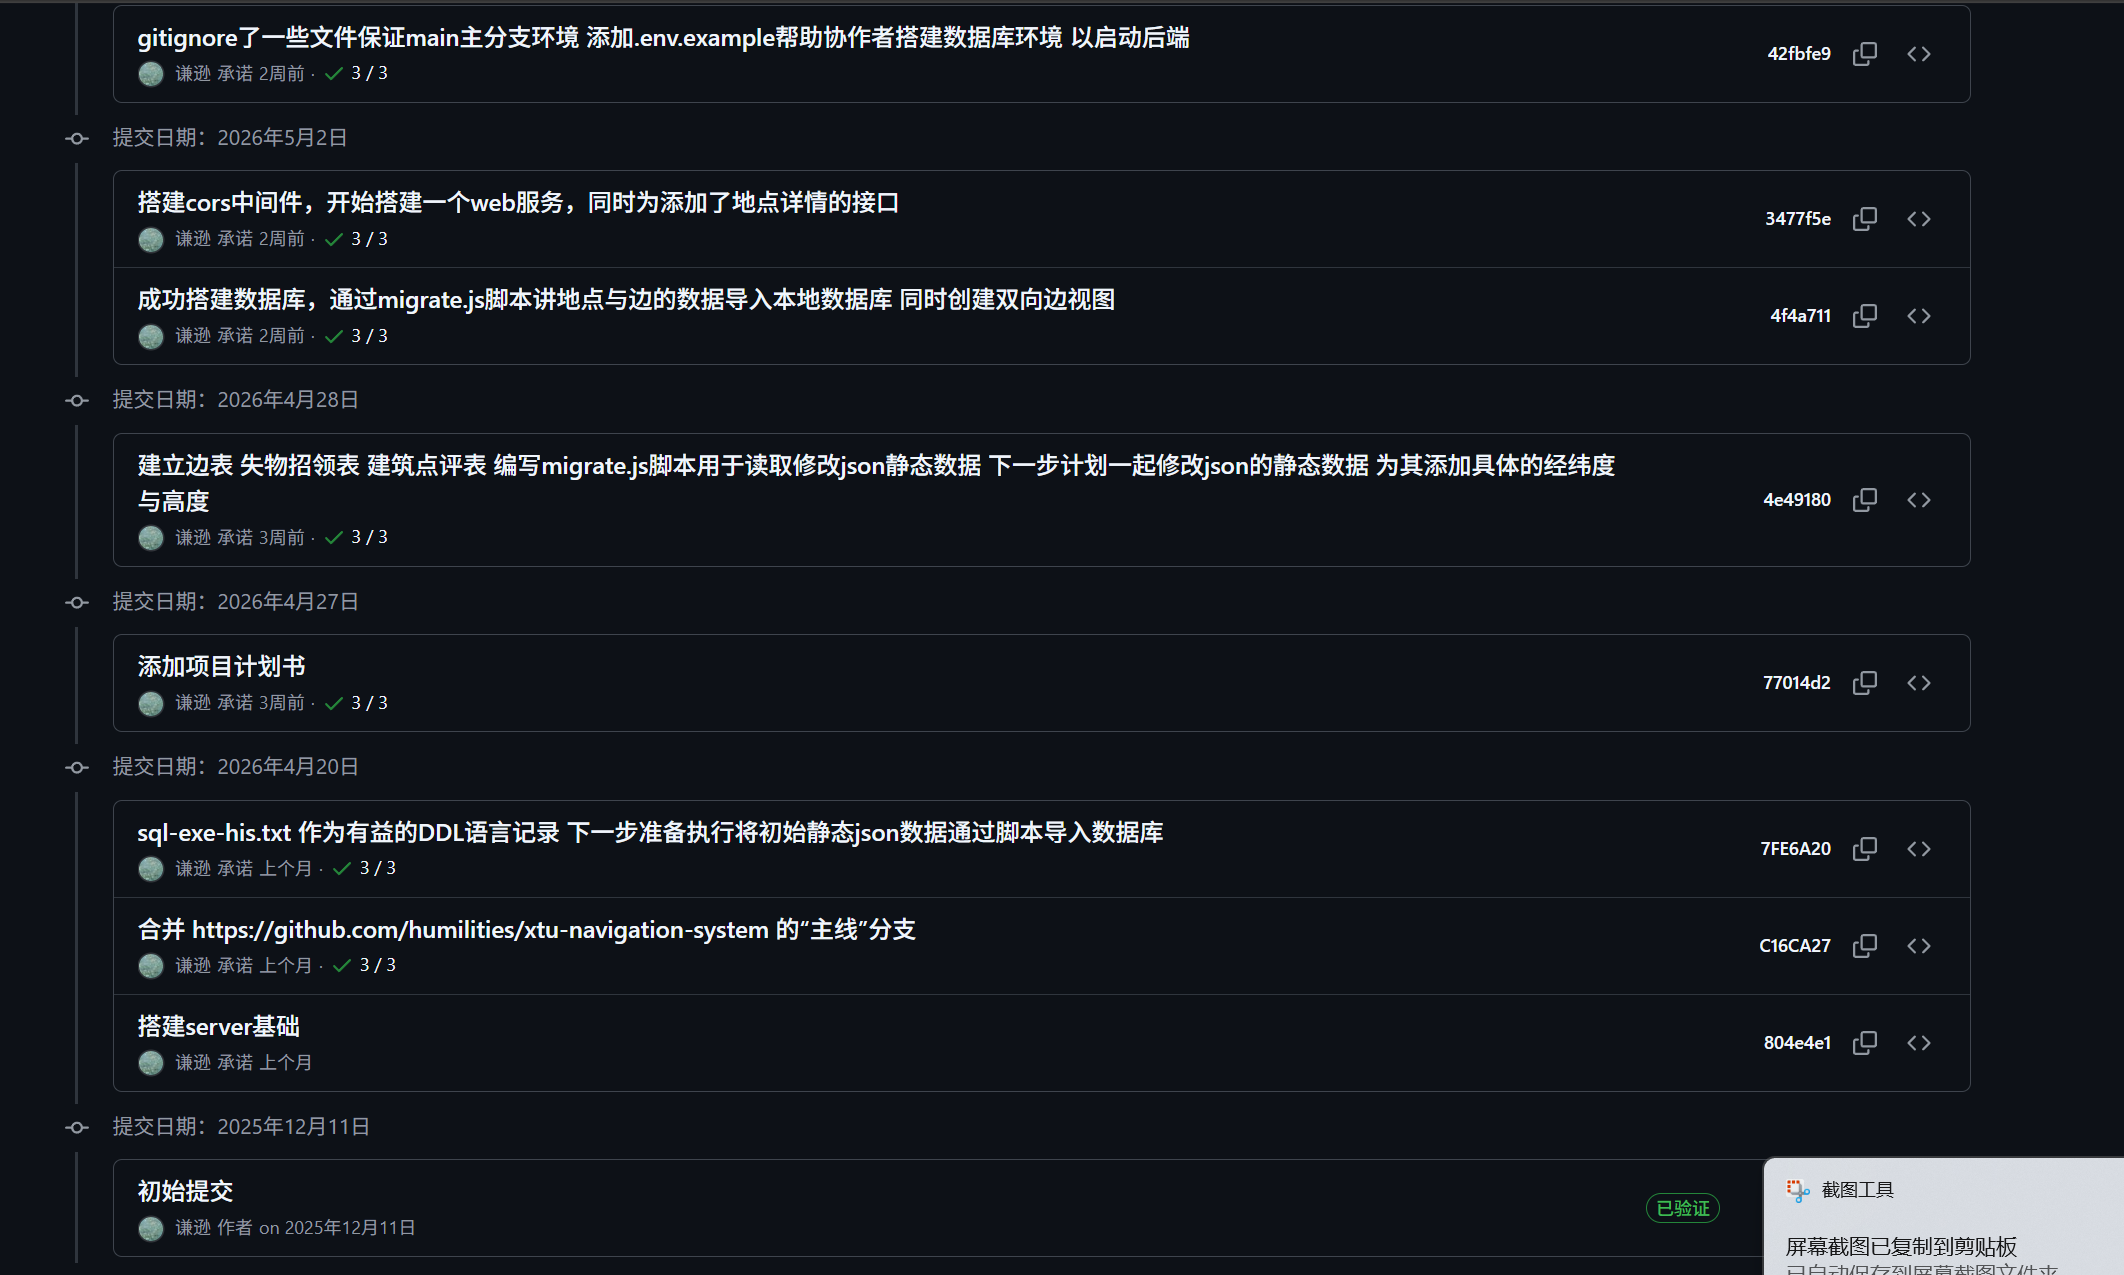
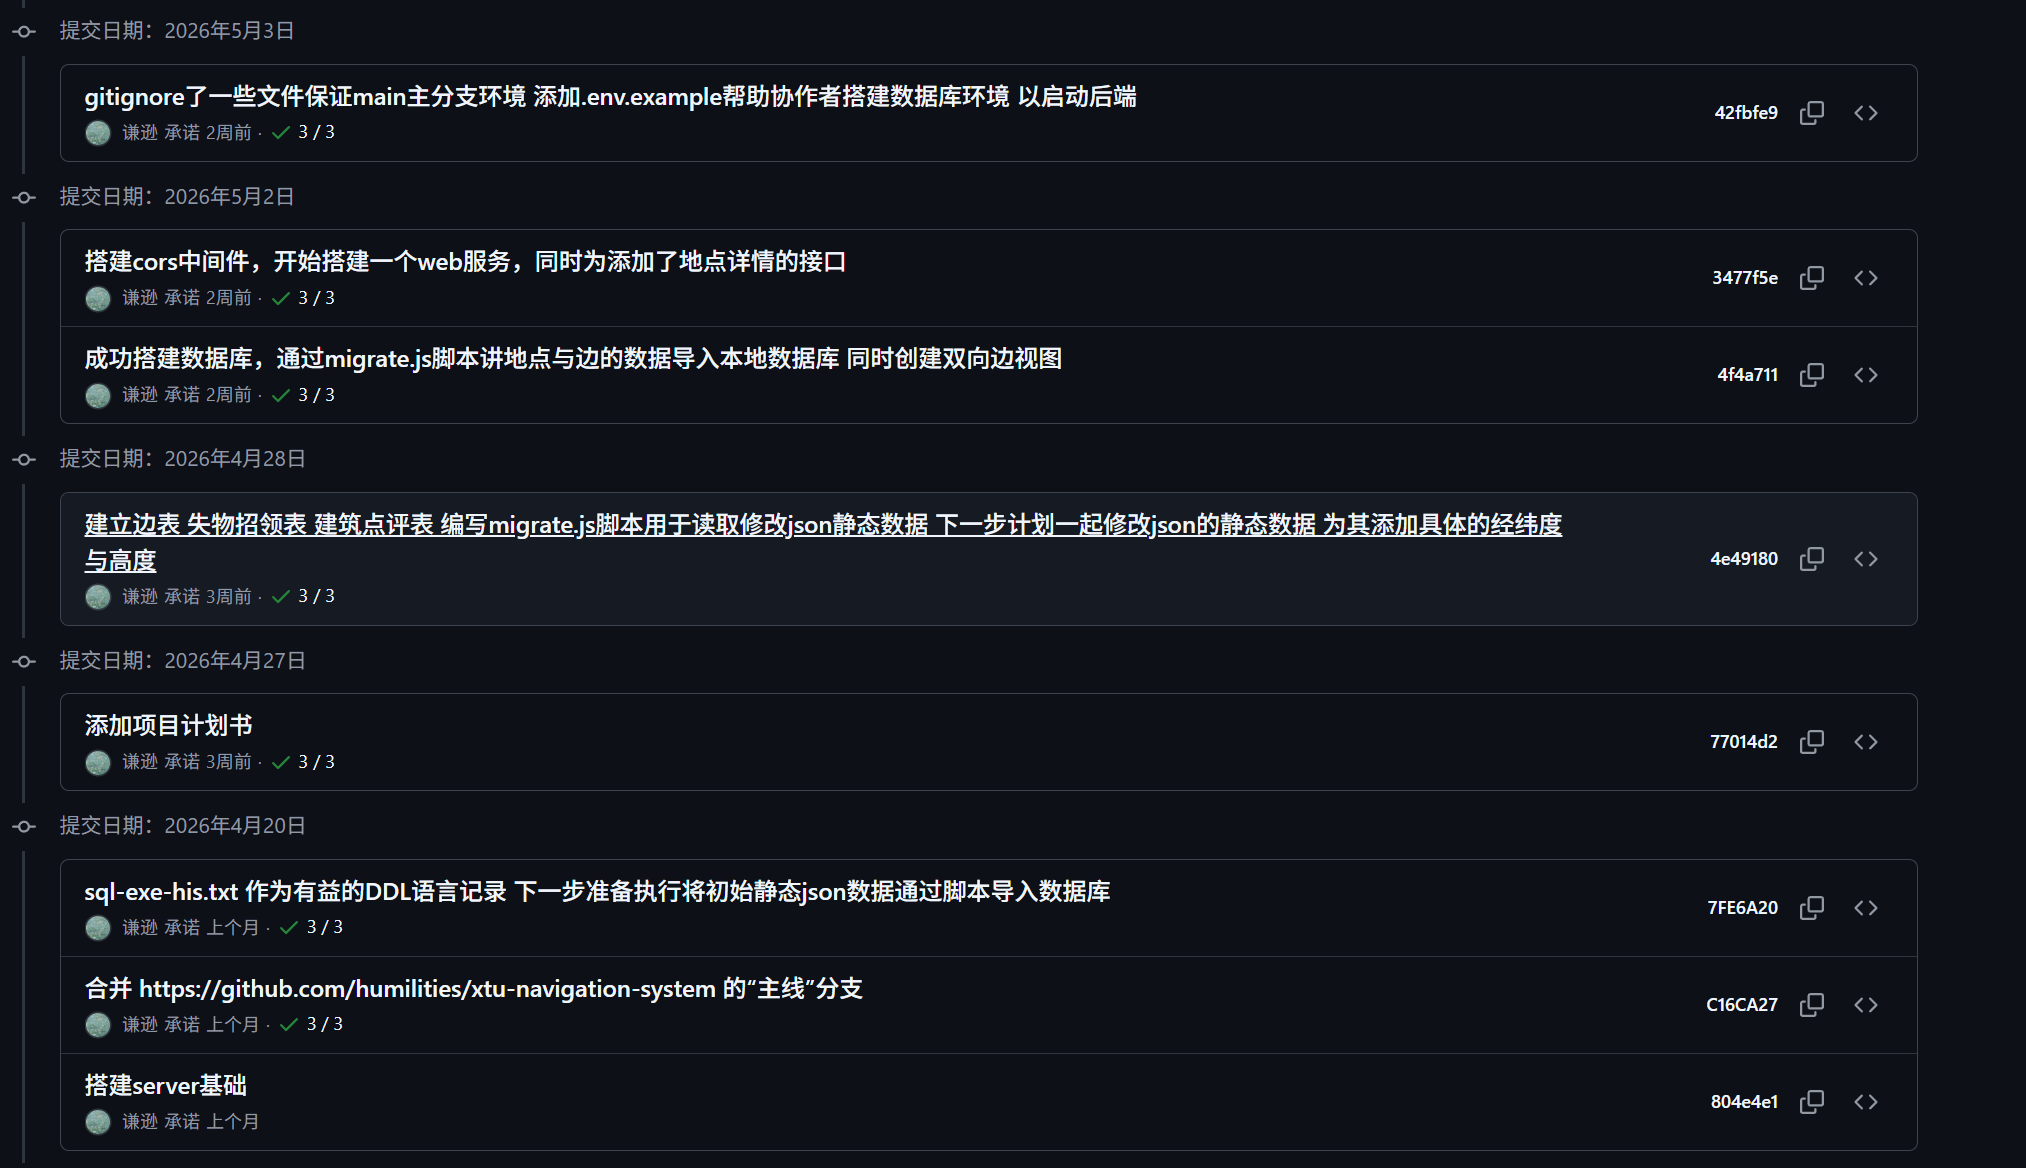
fix:修复文档显示错误

diff --git a/report/2. 中期与结项报告.md b/report/2. 中期与结项报告.md
@@ -1,15 +1,3 @@
-# 软件说明书（中期 / 结项共用主文档）
-> 使用说明 
->
-> + 本文档作为**中期检查**与**最终软件说明书**的共用主文档。  
-> + **中期阶段**：先完成标注为“中期必填”的内容；标注为“结项补全”的内容可暂留空。  
-> + **结项阶段**：在中期版本基础上继续补全，整理后导出为最终doc/docx。  
-> + 过程性图片请单独存放在`assets/`目录，正文中使用相对路径引用。  
-> + 过程考核以Git中的md增量记录为主，最终排版稿以导出的doc/docx为准。
->
-
----
-
 ## 基本信息
 **项目名称：校园导航及地点信息处理系统**  
 **学    院：** 计算机学院  
